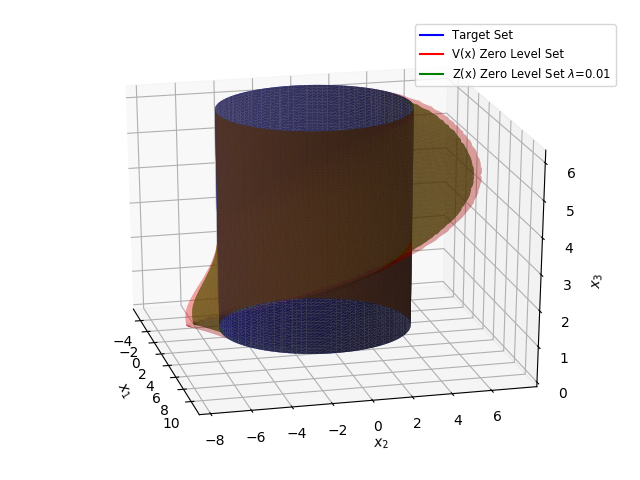
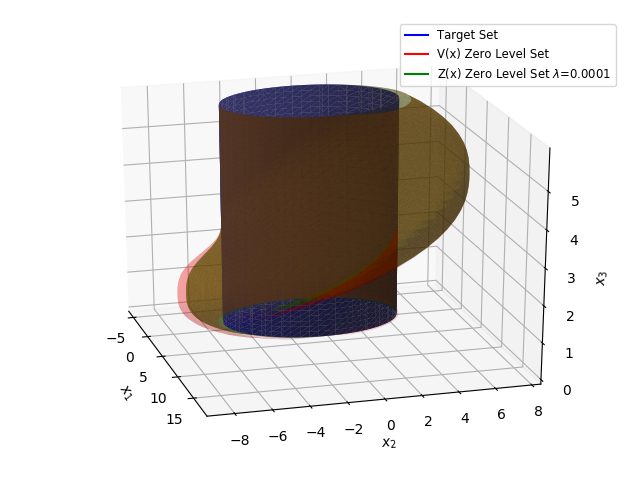
Full version of paper

Changed region(s): [[0.1562, 0.0625, 0.9688, 0.9375], [0.875, 0.8125, 0.9062, 0.8438], [0.875, 0.6562, 0.9062, 0.6875]]

diff --git a/doc/current_version /pursuit_evasion.tex b/doc/current_version /pursuit_evasion.tex
@@ -20,11 +20,11 @@ Player I is considered captured when the relative distance (in position) between
 \end{equation}
 
 
-We first compute the value functions for the MR and MDR setting the model parameters to $v_u=v_d=5$, $u_{max}=d_{max}=1$, and $R=5$. This will be referred to as model 1. A visualization of the zero sub-level set for both $V(x)$ and $Z(x)$ for $\lambda=0.01$ is shown in Fig~\ref{fig:air3D}.
+We first compute the value functions for the MR and MDR on a $41 \times 41 \times 41$ grid, and setting the model parameters to $v_u=v_d=5$, $u_{max}=d_{max}=1$, and $R=5$. This will be referred to as model 1. A visualization of the zero sub-level set for both $V(x)$ and $Z(x)$ for $\lambda=0.001$ is shown in Fig~\ref{fig:air3D}.
 
 
 \begin{figure}
-\includegraphics[scale=0.5]{air_3D.png}
+\includegraphics[trim= 2.5cm 0cm 0cm 0.5cm, clip=true,scale=0.65]{air_3D.png}
 \caption{The target set $\mathcal{T}$ is the blue cylinder. The zero sub-level sets of $V$ and $Z$ are in red and blue, respectively. The discount rate is $\lambda=0.01$.}
 \label{fig:air3D}
 \end{figure}
@@ -47,12 +47,12 @@ We now construct two other models by tweaking model 1: setting $u_{max}=1.5$ pro
 
 \begin{table}
 \centering
-\caption{Pursuit-Evasion for various models ($M$) with and without warm start ($WS$)}
+\caption{Pursuit-Evasion for various models ($M$) with and without warm start ($W$)}
 \label{tab:pursuit_evasion}
 \begin{tabular}{|c| c| c| c| c|c|}
 \hline
-\# nodes & $M_1$ & $M_2$ & $M_2$ with $WS$ & $M_3$ & $M_3$ with $WS$\\ \hline
-$41^3$ & $27.81$ & $50.982$ & $20.34$ & $28.191$ & $8.60$ \\ \hline
-$81^3$ & $563.975$ & $973.898$ & $590.165$ & $576.184$ & $176.982$ \\ \hline
+\# nodes & $M_1$ & $M_2$ & $M_2$  $W$ & $M_3$ & $M_3$  $W$\\ \hline
+$41^3$ & $20.84$ & $18.32$ & $12.66$ & $14.32$ & $8.89$ \\ \hline
+$81^3$ & $339.66$ & $339.66$ & $224.29$ & $267.81$ & $166.95$ \\ \hline
 \end{tabular}
 \end{table}

diff --git a/mdp/examples/iso_surface.py b/mdp/examples/iso_surface.py
@@ -18,7 +18,7 @@ from skimage.draw import ellipsoid
 if __name__ == "__main__":
 
     # Grid parameters
-    num_nodes = np.array([21, 21, 21])
+    num_nodes = np.array([41, 41, 41])
 
     ang_u = 2*np.pi * (1 - 1/(num_nodes[2]))
     s_lims = np.array([[-6, -10, 0],[20, 10, ang_u]]) #state space limits
@@ -48,14 +48,14 @@ if __name__ == "__main__":
     	             d_lims, dynamics=dynamics, avoid_func=avoid_func,
     	             lamb=lamb, sparse=True, angular=[2])
 
-    lamb_2 = 0.01 #lambda
+    lamb_2 = 0.0001 #lambda
     my_world_2 = Avoid(num_nodes, s_lims, num_nodes_a, a_lims, num_nodes_d, 
                      d_lims, dynamics=dynamics, avoid_func=avoid_func,
                      lamb=lamb_2, sparse=True)
 
     reward = my_world.reward
-    value_v, _ , _=  my_world.v_pi_opt(method='vi')
-    value_z, _ , _ =  my_world_2.v_pi_opt(method='vi')
+    value_v, _ =  my_world.v_pi_opt(method='vi')
+    value_z, _ =  my_world_2.v_pi_opt(method='vi')
     grid = my_world._all_states_c
 
     # Generates level curves for target (reward) and value_function
@@ -82,7 +82,7 @@ if __name__ == "__main__":
 
     ax.plot([0],[0], 'b', label='Target Set')
     ax.plot([0],[0], 'r', label='V(x) Zero Level Set')
-    # ax.plot([0],[0], 'g', label='Z(x) Zero Level Set $\\lambda$'+'={}'.format(lamb_2))
+    ax.plot([0],[0], 'g', label='Z(x) Zero Level Set $\\lambda$'+'={}'.format(lamb_2))
 
     #ax.set_xlim(s_lims[0,0], s_lims[1,0])
     #ax.set_ylim(s_lims[0,1], s_lims[1,1])

diff --git a/doc/current_version /simulations.tex b/doc/current_version /simulations.tex
@@ -1,7 +1,7 @@
 % !TEX root = main_min_disc_dist.tex
 This section uses two benchmark models, double integrator and pursuit-evasion game, to exemplify the numerical properties of the MDR formulation. The double integrator model will be used to display the over-/under-approximation of the reachable set, as well as to compare policy iteration with value iteration. The pursuit-evasion game is used to demonstrate the advantages of multigridding. 
 
-Unless stated otherwise all algorithms are initialized with $\vec{h}=\vec{l}-L$, and are considered converged when the distance (in the infinity norm) between consecutive iterates falls below $\epsilon =.0005$, i.e. $||\vec{U}^{k+1}$.
+Unless stated otherwise all algorithms are initialized with $\vec{h}=\vec{l}-L$, and are considered converged when the distance (in the infinity norm) between consecutive iterates falls below $\epsilon =.0005$.
 
 \input{double_integrator.tex}
 

diff --git a/mdp/mdp/grid_world_ext.py b/mdp/mdp/grid_world_ext.py
@@ -350,6 +350,6 @@ class Avoid(GridWorld):
         else:
             self.tol = (1-self._gamma) * 10**(-1)
         
-        self.tol = 10**-2
+        self.tol = 10**-3
         self._reward = avoid_func(self._all_states)
 
